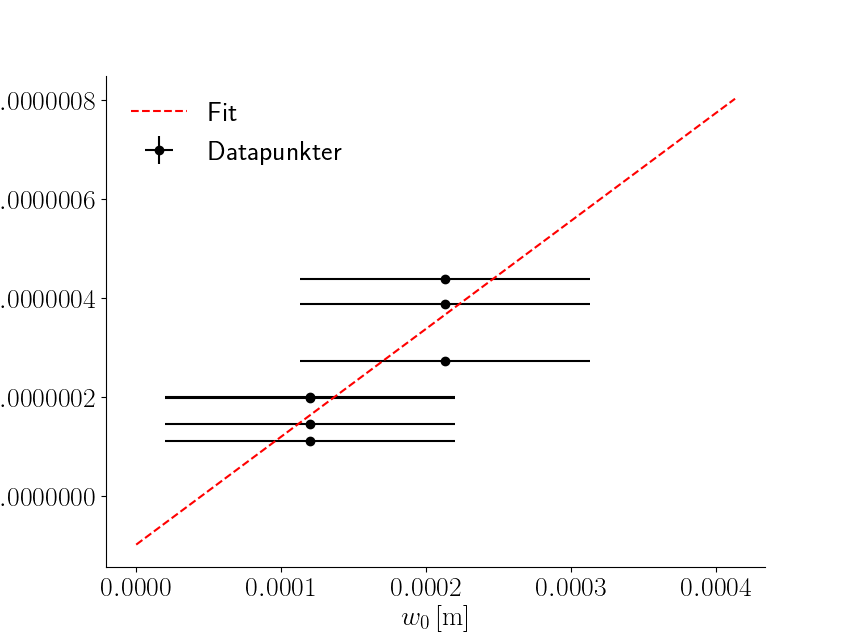
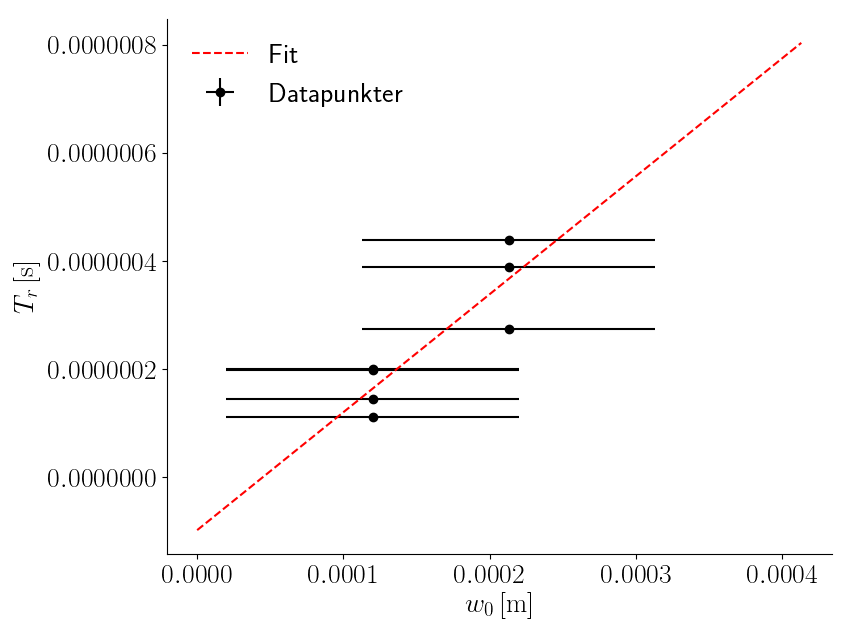
he

diff --git a/FinalProjekt/Databehandling_modul2.tex b/FinalProjekt/Databehandling_modul2.tex
@@ -38,6 +38,9 @@ Der er afbildet figurer med risetimes som funktion af waist ved disse fokallæng
   \caption{}
   \label{fig:risetime_fig}
 \end{figure}
-Det ses på \cref{fig:risetime_fig} at usikkerhederne på waist målingerne er ret store ift. til skalaen. Ud fra grafen her findes hældningen på kurven til at være, $\SI{0,002183}{\second\per\meter}$ og dette medfører da at den målte lydhastighed i krystallen her bliver: $v_{sound} = 586,3 \pm 138.5 \ \si{\meter\per\second}$. Usikkerheden på lydens hastighed er her fundet ud fra spredningen på fitteparametren, $k$ i et fit på typen $T_r = k\cdot w_0 +c $ - her er spredningen på denne parameter brugt til at finde usikkerheden på lydhastigheden ud fra ophobningsloven.
+Det ses på \cref{fig:risetime_fig} at usikkerhederne på waist målingerne er ret store ift. til skalaen. Ud fra grafen her findes hældningen på kurven til at være, $\SI{0,002183}{\second\per\meter}$ og dette medfører da at den målte lydhastighed i krystallen her bliver: $v_{sound} = 586,3 \pm 138.5 \ \si{\meter\per\second}$. Usikkerheden på lydens hastighed er her fundet ud fra spredningen på fitteparametren, $k$ i et fit på typen $T_r = k\cdot w_0 +c $ - her er spredningen på denne parameter brugt til at finde usikkerheden på lydhastigheden ud fra ophobningsloven, altså ved:
+\begin{equation}
+  \nonumber sds(v_{sound}) = \sqrt{\left(\frac{0.64 \cdot 2}{k^2}\right)^2 \cdot sds(k)^2}
+\end{equation}
 
 \end{document}

diff --git a/FinalProjekt/lab.py b/FinalProjekt/lab.py
@@ -350,6 +350,7 @@ plt.errorbar(waists,risetime,fmt = 'ok',xerr = sds_waist, yerr = 0,label='Datapu
 plt.xlabel(r'$w_0 \left[\si{\meter}\right]$')
 plt.ylabel(r'$T_r \left[\si{\second}\right]$')
 plt.legend()
+plt.tight_layout()
 plt.savefig('tegninger/risetime_fig.png')
 
 v_s_rise = 0.64*2/k_rise
